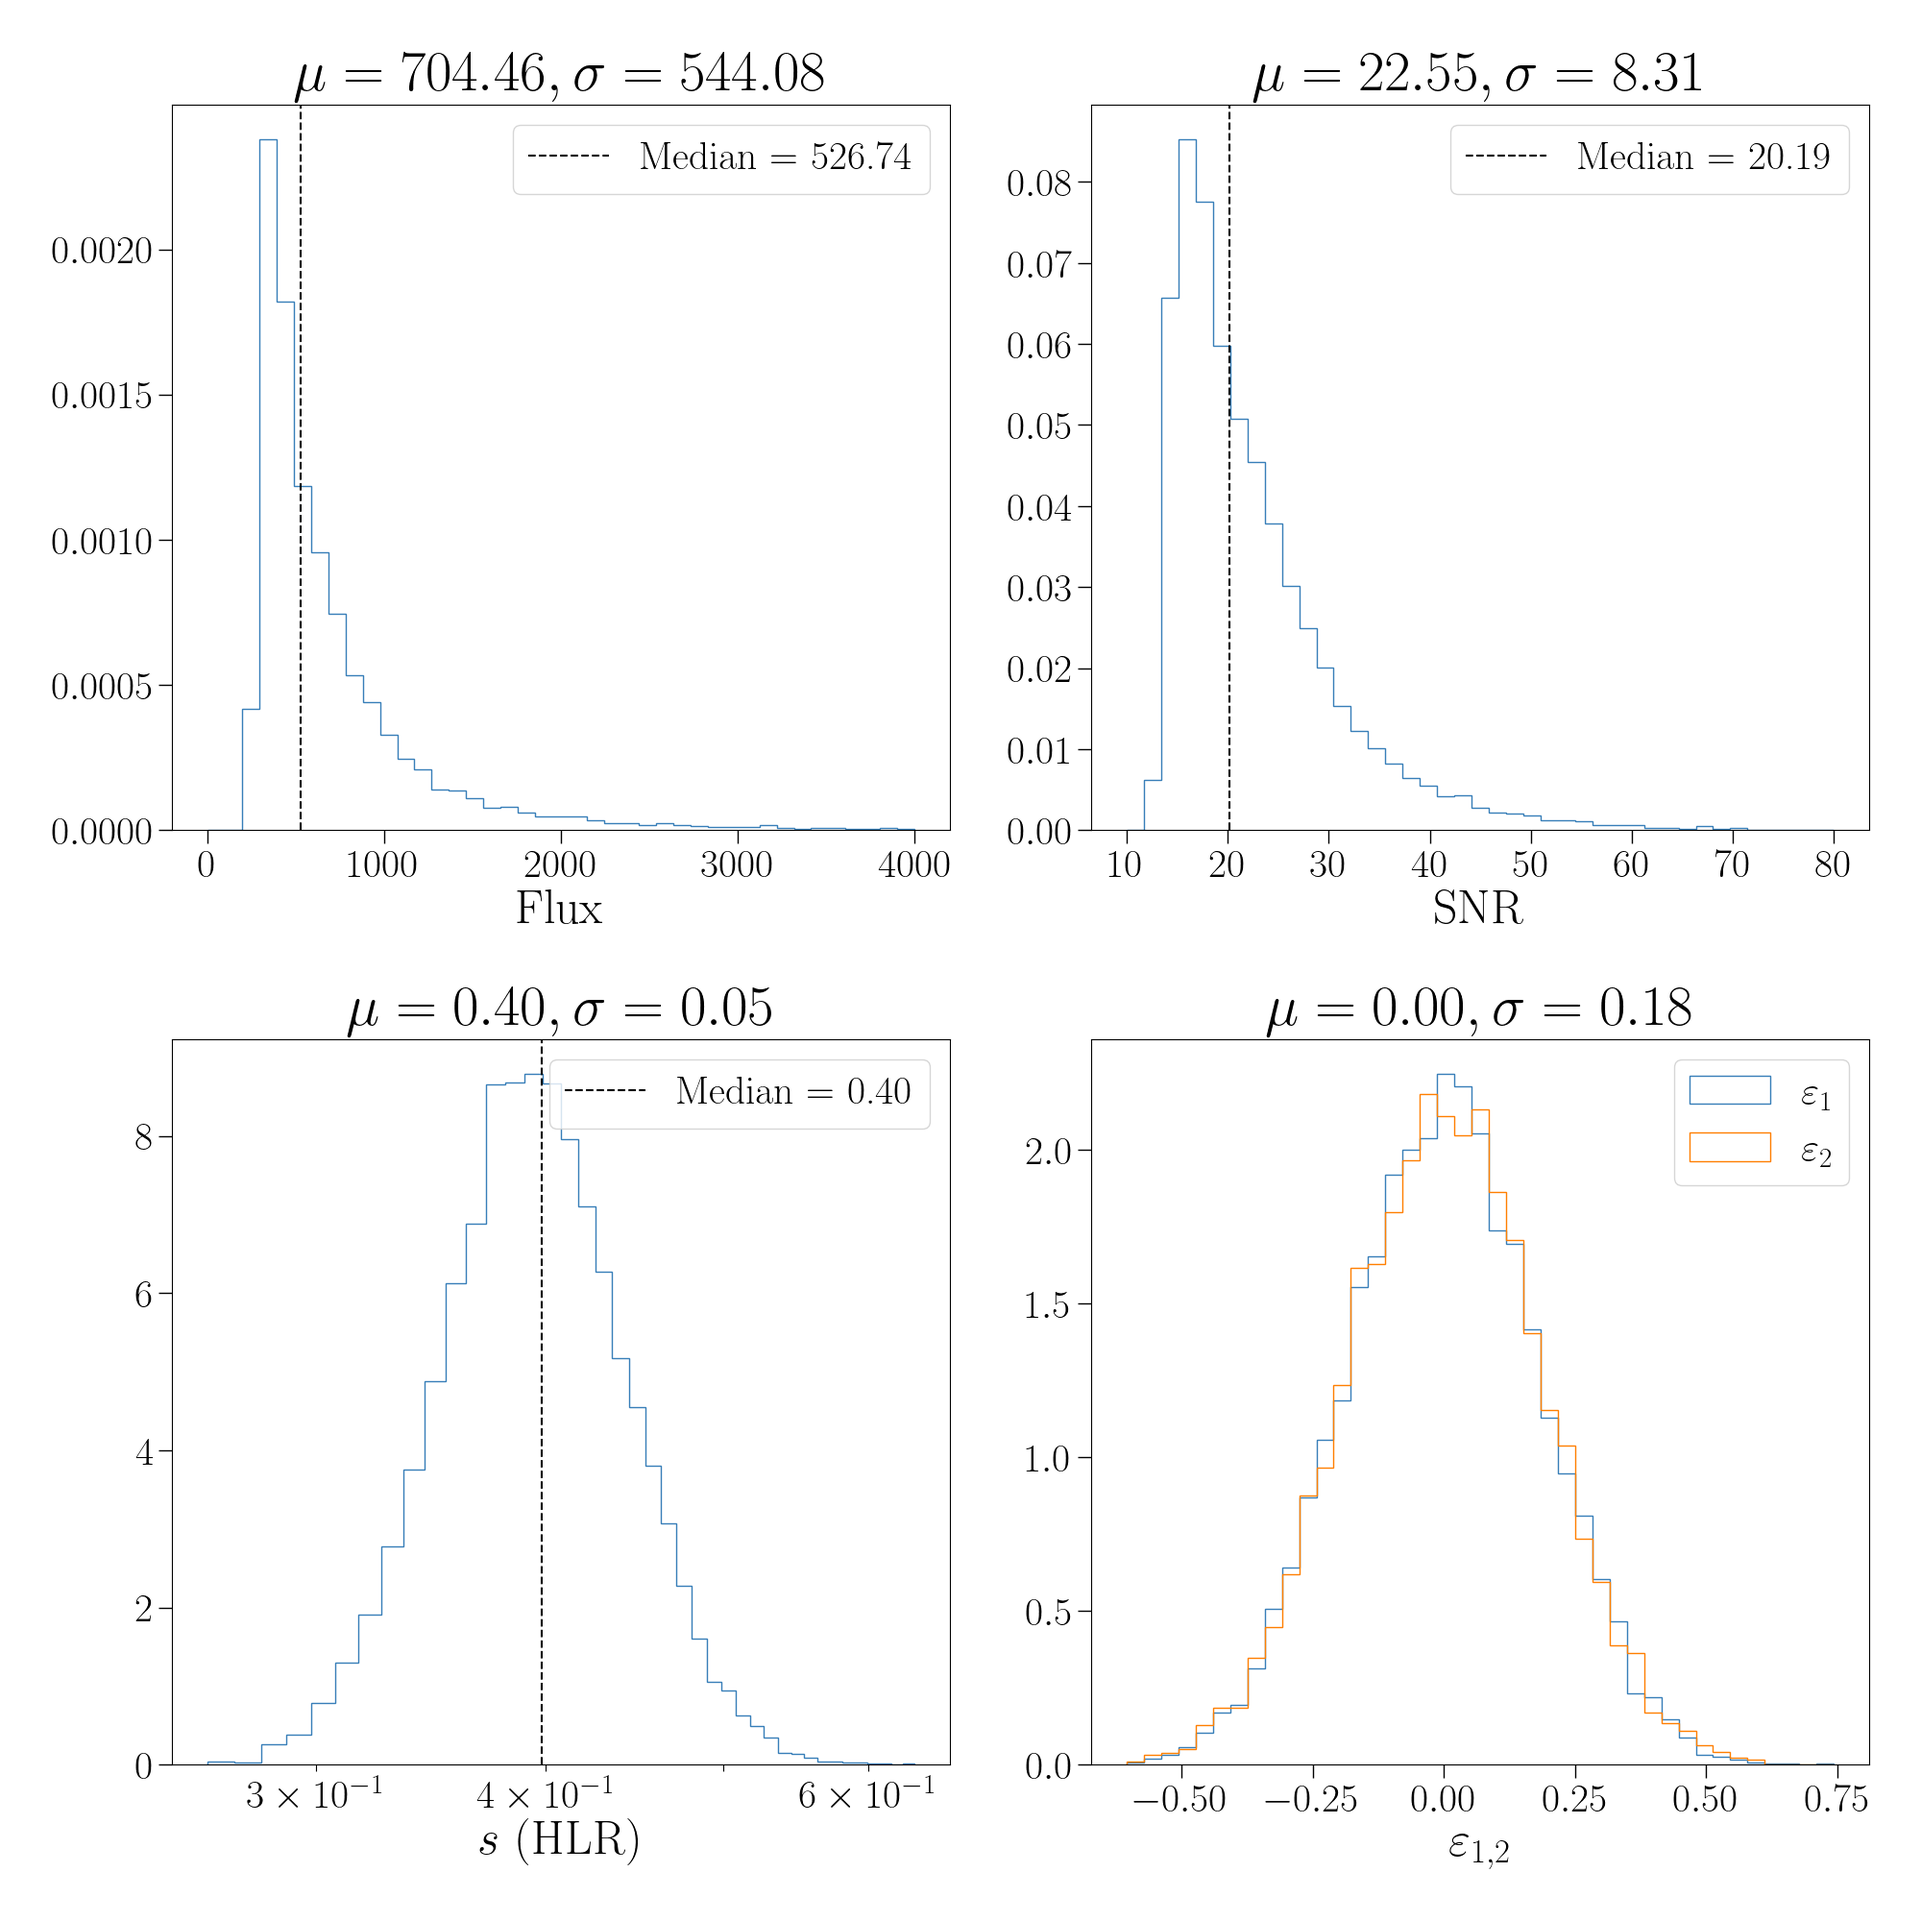
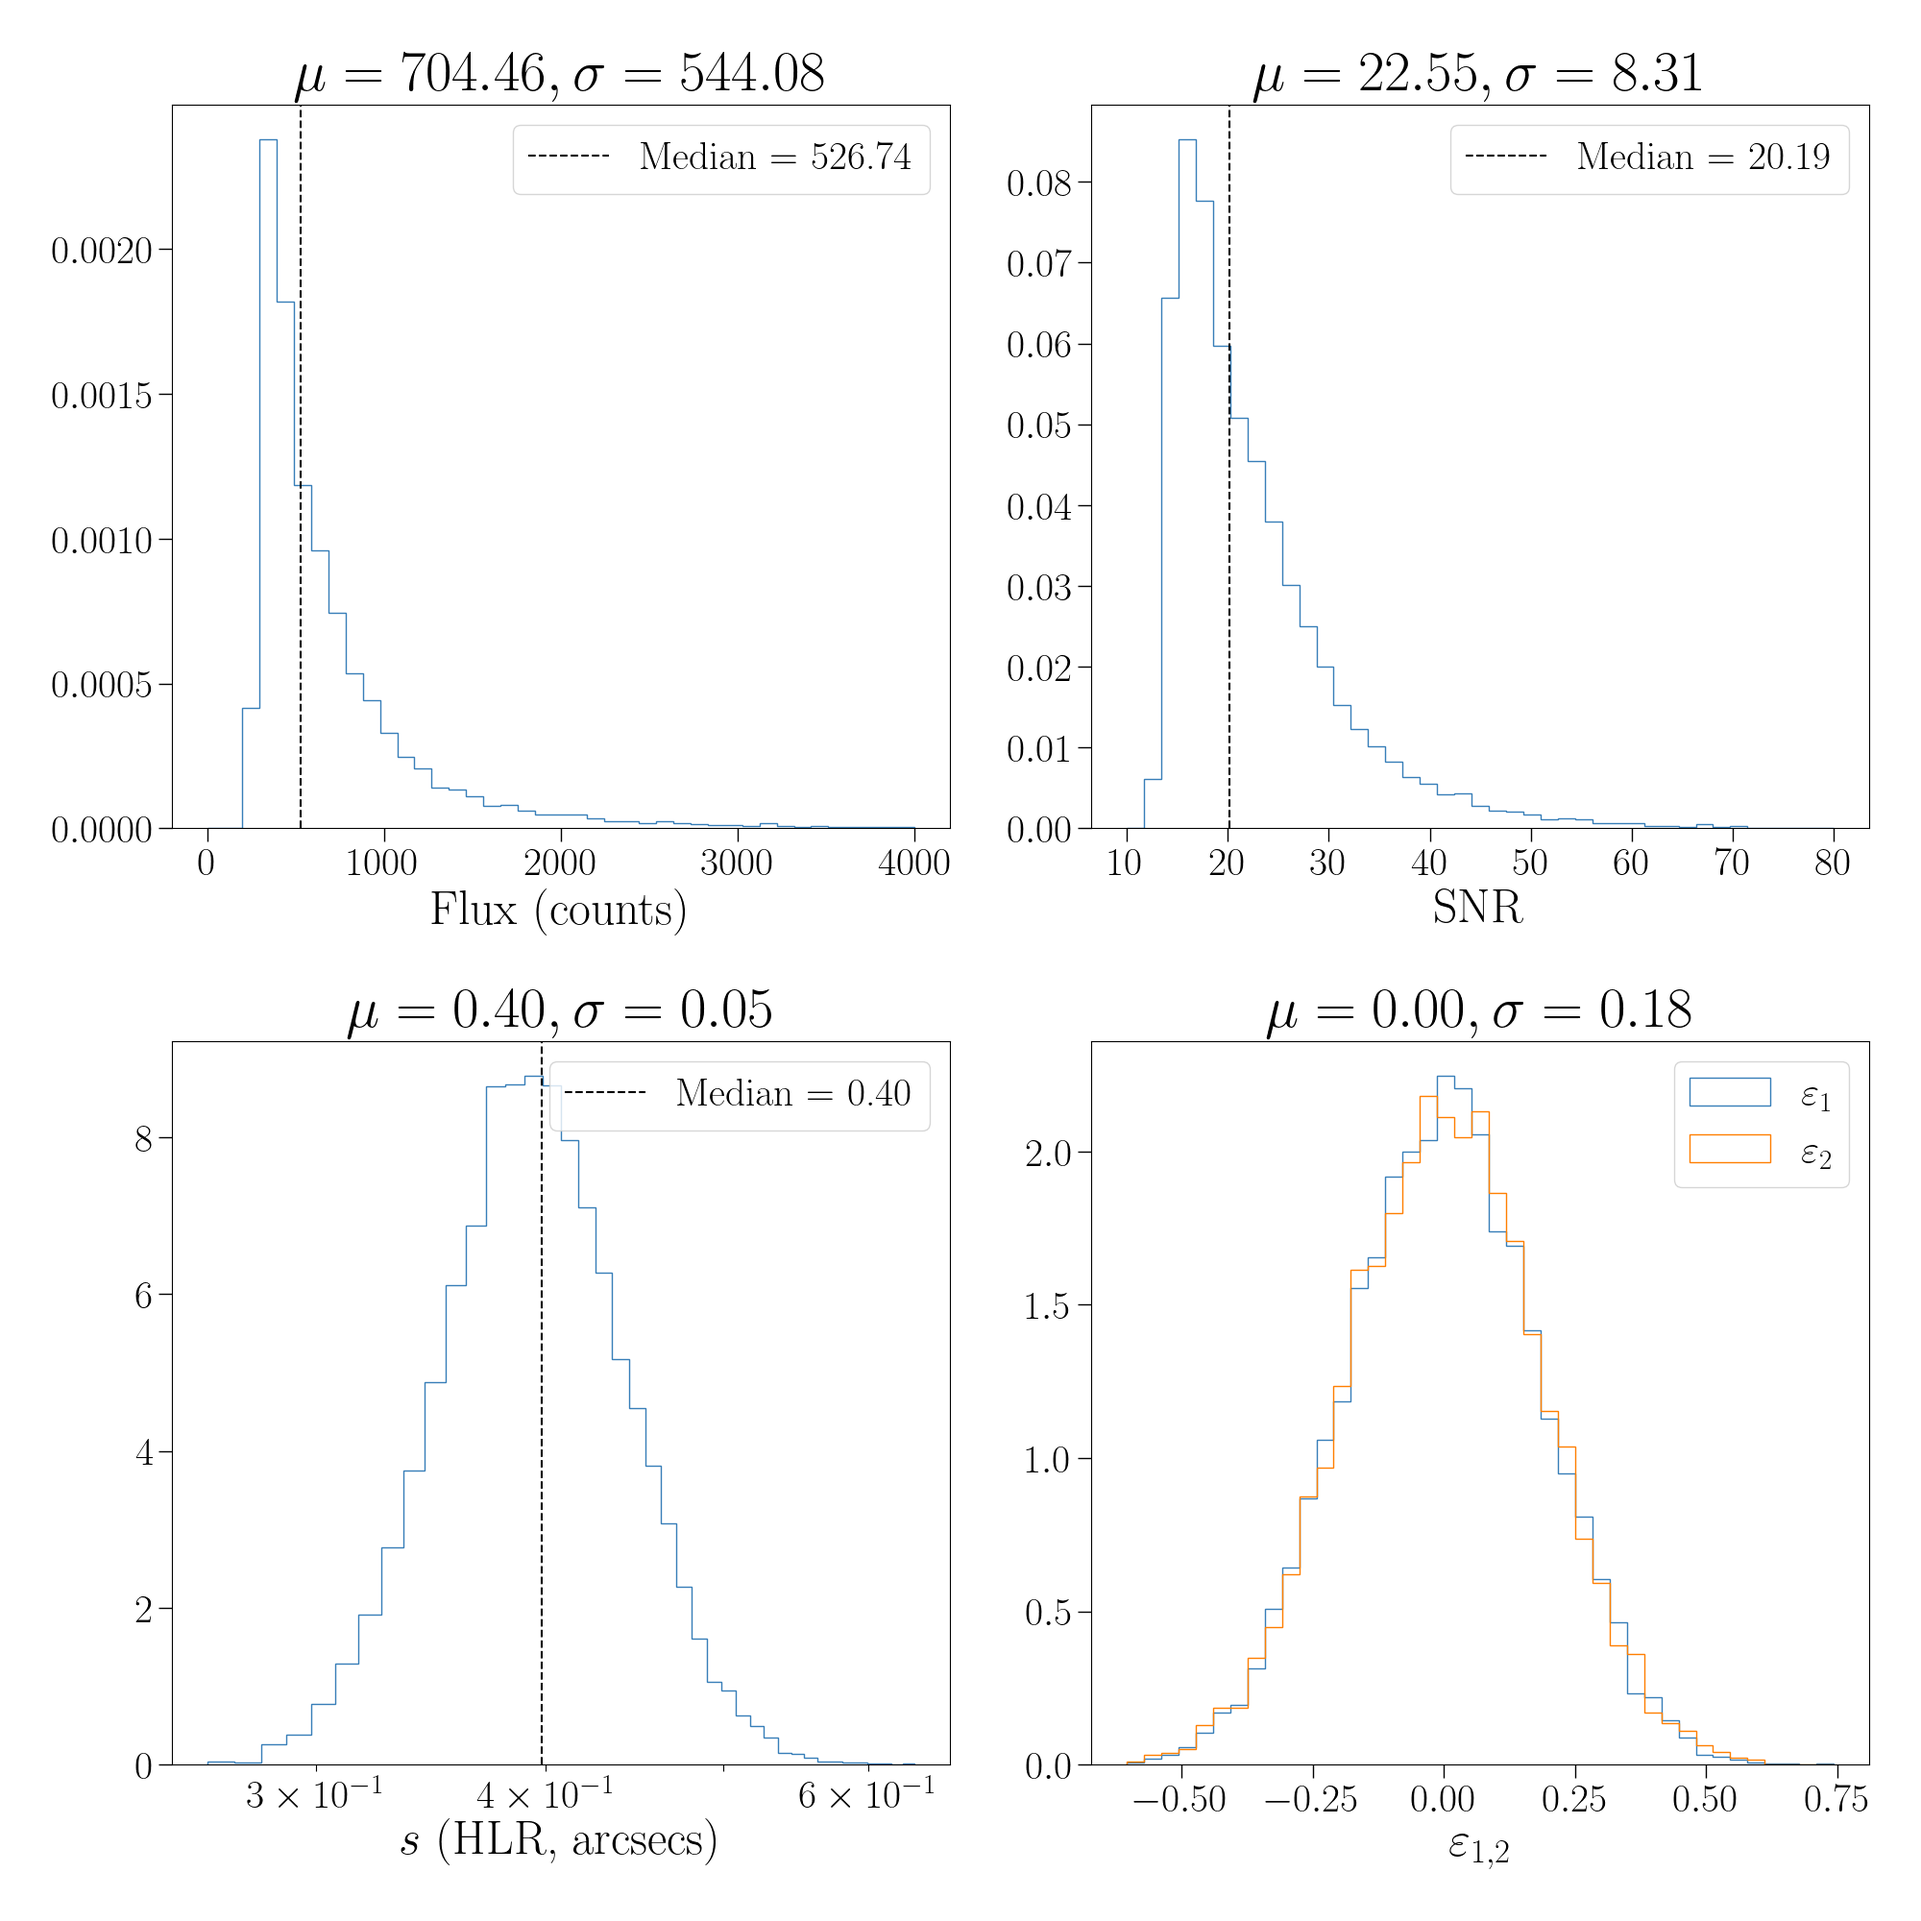
add units

diff --git a/scripts/get_paper_figures.py b/scripts/get_paper_figures.py
@@ -197,7 +197,7 @@ def make_distribution_figure(fpath: str | Path, overwrite: bool = False):
         density=True,
         range=(0, 4000),
     )
-    ax1.set_xlabel(r"\rm Flux")
+    ax1.set_xlabel(r"\rm Flux (counts)")
     ax1.axvline(
         np.median(params["f"]),
         linestyle="--",
@@ -234,7 +234,7 @@ def make_distribution_figure(fpath: str | Path, overwrite: bool = False):
         histtype="step",
         density=True,
     )
-    ax3.set_xlabel(r"\rm $s$ (HLR)")
+    ax3.set_xlabel(r"\rm $s$ (HLR, arcsecs)")
     ax3.axvline(
         np.median(params["hlr"]),
         linestyle="--",
@@ -780,14 +780,14 @@ def make_model_bias_figure(fpath: str | Path):
 
 
 def main(overwrite: bool = False):
-    make_timing_figure(OUT_PATHS["timing"], OUT_PATHS["timing2"])
     make_distribution_figure(OUT_PATHS["galaxy_distributions"], overwrite=overwrite)
-    make_contour_shear_figure(OUT_PATHS["contour_shear"])
-    make_contour_hyper_figure(OUT_PATHS["contour_hyper"])
-    get_bias_table_subset(OUT_PATHS["subset_bias"])
-    get_bias_table_boot(OUT_PATHS["boot_bias"])
-    make_eta_posterior_calibration_figure(OUT_PATHS["eta_pc"])
-    make_model_bias_figure(OUT_PATHS["model_bias"])
+    # make_timing_figure(OUT_PATHS["timing"], OUT_PATHS["timing2"])
+    # make_contour_shear_figure(OUT_PATHS["contour_shear"])
+    # make_contour_hyper_figure(OUT_PATHS["contour_hyper"])
+    # get_bias_table_subset(OUT_PATHS["subset_bias"])
+    # get_bias_table_boot(OUT_PATHS["boot_bias"])
+    # make_eta_posterior_calibration_figure(OUT_PATHS["eta_pc"])
+    # make_model_bias_figure(OUT_PATHS["model_bias"])
 
 
 if __name__ == "__main__":
